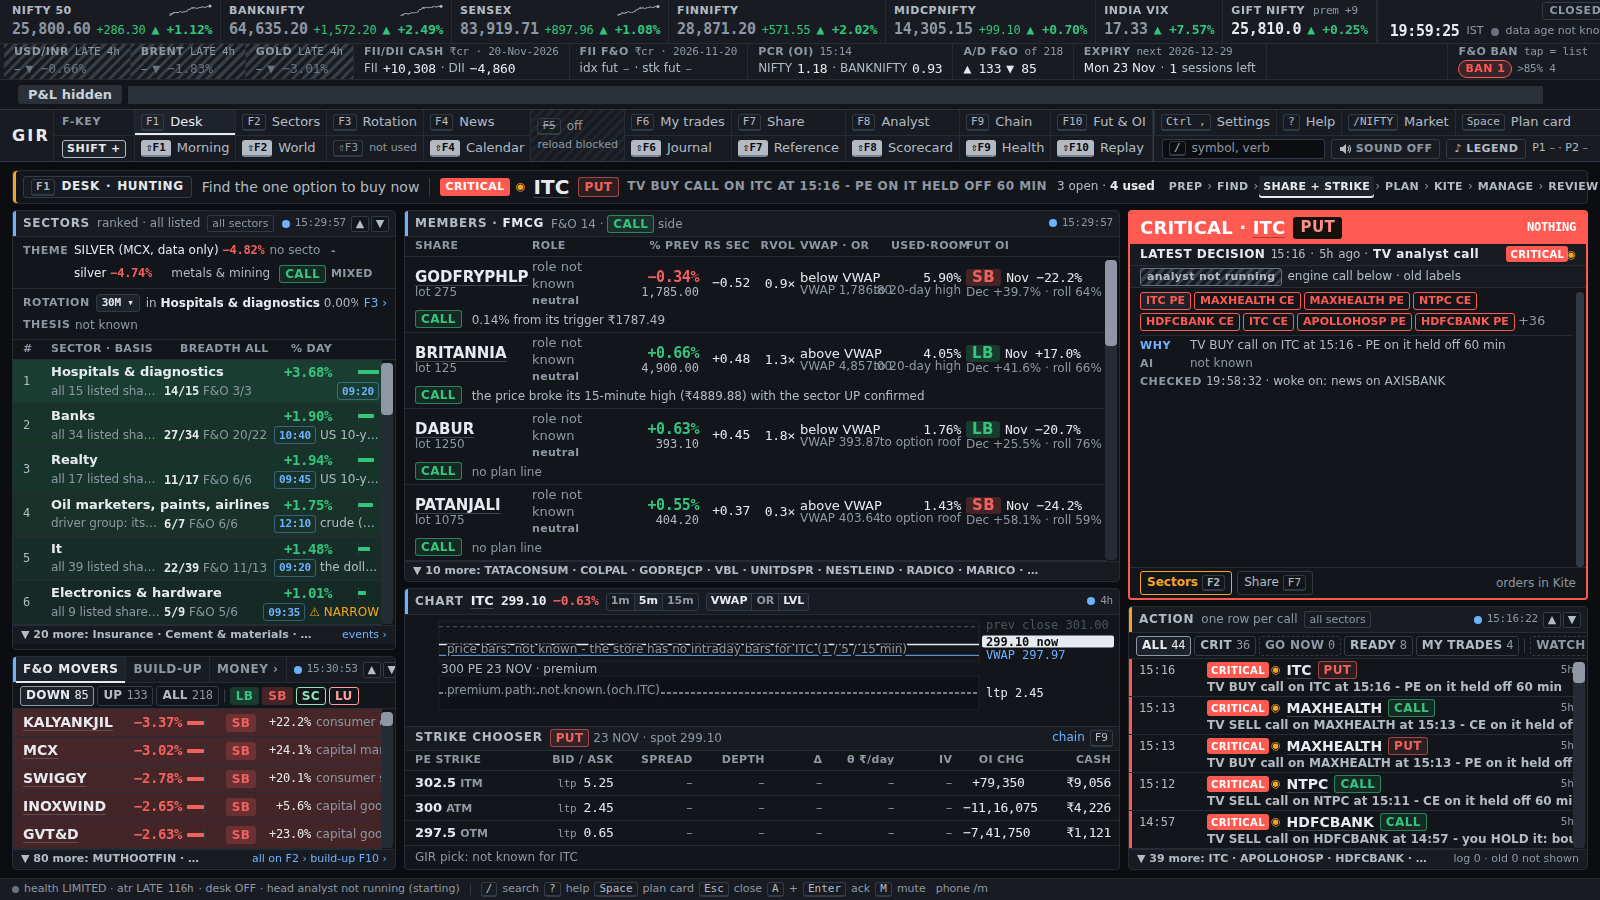
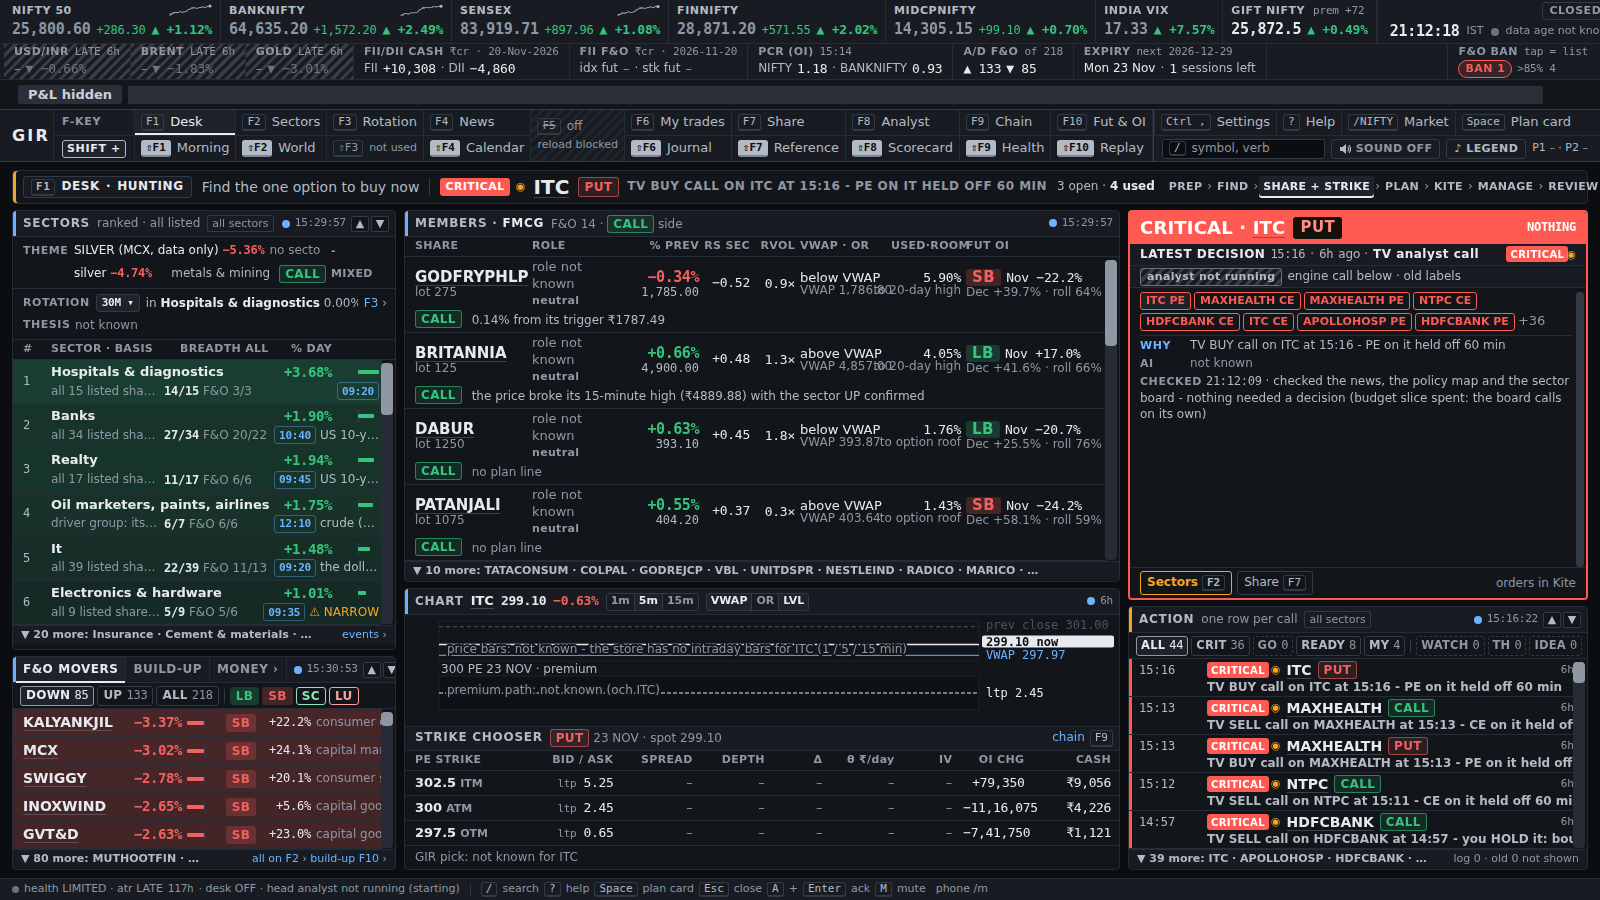
monday: monday status update

Changed region(s): [[0.7188, 0.6844, 1.0, 0.7467], [0.7188, 0.4044, 0.9688, 0.4667], [0.875, 0.0311, 0.9062, 0.0622]]

diff --git a/intraday_patches/monday/STATUS.md b/intraday_patches/monday/STATUS.md
@@ -93,3 +93,6 @@ Last update: 20:55 IST
 - 21:03 - FOR THE DESK (engine rule E9, not the new desk): on the live store tonight the give-back rule reads "PROFIT LOCK: day P&L Rs -11,484 gave back 1027% of today's peak Rs 1,239". A small positive peak followed by a loss locks the day as a PROFIT lock, and that would block any BUY NOW on such a day. The loss lock is separate. Is this intended, or should give-back apply only when the peak is above a floor? Nothing changed.
 - 21:08 - DESK HEAD re-test 3 (real API, 21:02-21:05, $0.86): the FLOWS-id and GAP_HOLD fixes held. Failed after one retry on three new slips: (1) the manage ids lacked the "POS:" prefix; (2) one idea on BANKNIFTY, which the share-only check rejects (SERVER_ORDER 6 allows index options, so code will either allow them or say "shares only" up front); (3) one bare number in a sentence. Code fixes being made: normalise the position id, a retry that changes only the bad fields, and 2 retries for briefs and meetings (1 for live looks). The head stays gated until a real call passes; FULL1 ($24) follows. Head re-tests total about $3.1 tonight, on the shadow line.
 - 21:12 - DESK GO-LIVE SHADOW DONE (real API, tonight's news, own folder and ledger): HEAD PASS at 21:10 (brief, first call, $0.57: 3 new ideas, 2 manage notes, 0 BUY NOW; DESK_shadow_20261120-2110.md) after the allowed-lists / keep-what-was-right retry fixes. 37-seat --apply run: 35 PASS, 2 off ($3.2; DESK_shadow_20261120-2108.md). Readers R1-R6 all PASS (QUIET reasons logged), seats 1-7, 9-20, 22-29, 36, 37 and 15 PASS. OFF: 21 IT/EMS and 31 Derivatives, only on headline length (26-27 words vs 25). seats.json: HEAD ON, 35 ON, 21 / 31 OFF (re-test after the 2-retry fix), 8 / 30 off by the desk's plan. Shadow spend tonight in total about $7, all on the shadow line, not the $8 day. Next: re-test 21 / 31, then FULL1 rehearsal 18/19/20 Nov (limit $24).
+- 21:14 - DESK FULLY ON: 21 IT/EMS and 31 Derivatives re-tested after the keep-what-was-right retry (2 retries for seat calls): both PASS ($0.30). seats.json: 39 on (HEAD, 35 Connections, Devil, readers R1-R6, seats 1-7, 9-29, 31, 37, 15), 0 off; 8 and 30 stay out by the desk's plan. seats.json is read live, so no restart was needed. Tonight's live spend is on the weekend budget day ($8, "weekend 2026-11-21"): readers in slow mode; the 22:46 night check will probably wake the head for one real brief (~$0.5). Telegram is WOULD SEND only.
+- 21:14 - FULL1 REHEARSAL STARTED 21:12 (unit gir-v2desk-rehearsal-full1, nice 15): the new desk with real brains on recorded 18 / 19 / 20 Nov, each day from the evening before (19:45 / 22:45 / 07:15 / 09:08 briefs + live looks). Own board, own ledger (aispend_replay), limit $24 + $8 per replayed day; reads recordings only. About 45-50 min per day. Summary + EDGE scorecard -> DESK_rehearsal_FULL1.md.
+- 21:14 - FOR THE DESK: CONTRACTS section 0 bans clock times in digits ("15:29", "19:45" must be words). Seats 9, 21 and 36 kept writing times and needed a retry each time. Allow HH:MM as text? (code change is one line in nums.py; nothing changed). Also, headline >25 words is the commonest first-try slip (seats 1, 15, 16, 20, 21, 23, 31): raise to 30, or keep 25 and pay the retry (~$0.04)?

diff --git a/intraday_patches/monday/DESK_shadow_20261120-2113.md b/intraday_patches/monday/DESK_shadow_20261120-2113.md
@@ -1,0 +1,6 @@
+# DESK SHADOW CHECK 20 Nov 21:13 IST - one run per seat on the live store (own folder /home/globalbot/intraday/v2/data/desk/shadow/20261120-211221)
+
+| seat | name | bucket | PASS | $ | calls | s | result | invalid answers |
+|---|---|---|---|---|---|---|---|---|
+| 21 | IT services and EMS | SEATS | PASS | 0.1508 | 2 | 33.1 | card C:9ed8c660 | invalid: headline is 26 words - at most 25; bare digits '09: |
+| 31 | Derivatives | SEATS | PASS | 0.1512 | 2 | 33.2 | card C:eb3876da | invalid: headline is 28 words - at most 25 |
